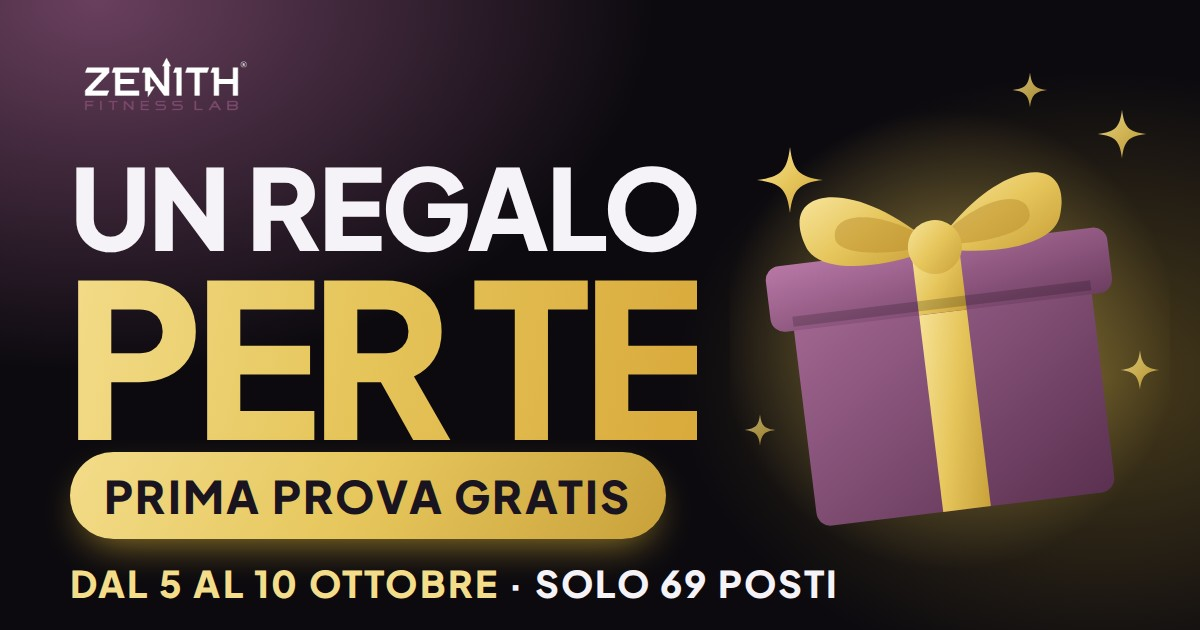
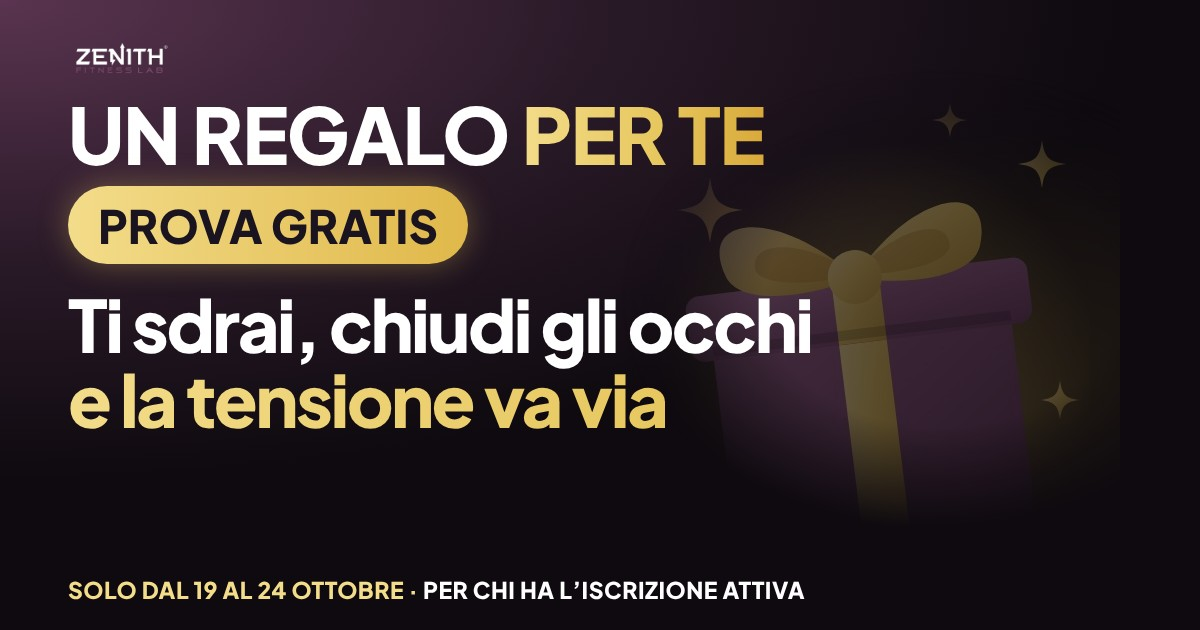
Regalo iscritti: foto definitiva, stesso script e stesso link della prima settimana (da pubblicare dopo l'aggiornamento dello script)
Claude-Session: https://claude.ai/code/session_01MZRCdVi6adMs4Bac4AWRp5

diff --git a/app/prova/index.html b/app/prova/index.html
@@ -5,13 +5,13 @@
 <meta name="viewport" content="width=device-width, initial-scale=1, viewport-fit=cover">
 <meta name="robots" content="noindex, nofollow">
 <meta name="theme-color" content="#0c0a0f">
-<title>Zenith Fitness Lab · La tua prova in regalo</title>
-<meta name="description" content="Riservato a chi si allena con noi: scegli il giorno e l'orario della tua prova in regalo.">
+<title>Zenith Fitness Lab · Un regalo per te</title>
+<meta name="description" content="Riservato a chi ha l'iscrizione attiva: un'esperienza nuova, in regalo. Ti sdrai, chiudi gli occhi e lasci andare tensione e stanchezza. Solo dal 19 al 24 ottobre.">
 <!-- l'anteprima che compare su WhatsApp quando si manda il link -->
 <meta property="og:type" content="website">
 <meta property="og:site_name" content="Zenith Fitness Lab">
-<meta property="og:title" content="Prenota la tua prova gratis 🎁">
-<meta property="og:description" content="Riservata a chi si allena con noi. Scegli il tuo giorno e il tuo orario: chi prima arriva, sceglie.">
+<meta property="og:title" content="Un regalo per te 🎁">
+<meta property="og:description" content="La tua iscrizione è ancora attiva: ti regaliamo un'esperienza nuova. Solo dal 19 al 24 ottobre.">
 <meta property="og:url" content="https://therightclickbooks-source.github.io/capsula/app/prova/">
 <meta property="og:image" content="https://therightclickbooks-source.github.io/capsula/app/prova/regalo.jpg">
 <meta property="og:image:type" content="image/jpeg">
@@ -25,7 +25,8 @@
 <link rel="preconnect" href="https://script.google.com" crossorigin>
 <link rel="preconnect" href="https://script.googleusercontent.com" crossorigin>
 <script>
-/* lo script del foglio «Zenith Settimana di Prova» (account del centro); con ?demo=1 la pagina gira coi dati finti */
+/* lo stesso script della prima settimana (account del centro), aggiornato con docs/prenotazioni/Codice-regalo.gs
+   e ripubblicato come nuova versione: l'indirizzo non cambia. Con ?demo=1 la pagina gira coi dati finti */
 var ENDPOINT = 'https://script.google.com/macros/s/AKfycbxlUqPClrMXdWWIUJSOVTvSfRBU4ds7H-lgafs_19W1-8fVHGFMIa436Y_EVBL8a2ye/exec';
 /* La richiesta dei posti parte qui, PRIMA del resto della pagina: quando il
    calendario e' pronto per essere disegnato la risposta e' gia' in viaggio,
@@ -33,7 +34,7 @@ var ENDPOINT = 'https://script.google.com/macros/s/AKfycbxlUqPClrMXdWWIUJSOVTvSf
 (function(){
   if(!ENDPOINT || /[?&]demo=1/.test(location.search)) return;
   var q = {azione:'stato', nome:'', cognome:''};
-  try{ var io = JSON.parse(localStorage.getItem('zfl_prova_io')) || {}; q.nome = io.nome || ''; q.cognome = io.cognome || ''; }catch(e){}
+  try{ var io = JSON.parse(localStorage.getItem('zfl_regalo_io')) || {}; q.nome = io.nome || ''; q.cognome = io.cognome || ''; }catch(e){}
   try{
     window.__STATO = fetch(ENDPOINT + '?' + new URLSearchParams(q).toString(), {redirect:'follow'})
       .then(function(r){ if(!r.ok) throw new Error('rete'); return r.json(); });
@@ -145,6 +146,15 @@ input.tel:focus{border-color:var(--oro)}
 .bollo .vai .dita{font-size:38px; line-height:1; margin-bottom:8px; animation:rimbalza 1.1s ease-in-out infinite}
 .nota-ingresso{font-size:13px; text-align:center; color:var(--faint); margin-top:14px; line-height:1.5}
 /* secondo passo: il periodo in grande, che non si possa non vederlo */
+.regalo{margin-top:4px; padding:18px 16px 16px; border-radius:24px; text-align:center; border:2px solid var(--oro);
+  background:radial-gradient(120% 90% at 50% 0%,rgba(230,198,92,.28),transparent 70%),rgba(255,255,255,.04)}
+.regalo .rk{font-size:13px; letter-spacing:.2em; font-weight:800; color:var(--oro)}
+.regalo .rt{font-size:27px; font-weight:800; line-height:1.1; margin-top:6px} .regalo .rt b{color:var(--oro)}
+.regalo .rp{display:flex; flex-direction:column; align-items:center; margin-top:10px}
+.regalo .r1{font-size:18px; font-weight:700} .regalo .r1 b{font-weight:800}
+.regalo .r2{font-size:40px; font-weight:800; line-height:1.05; letter-spacing:-.02em} .regalo .r2 s{font-size:24px; color:var(--muted, #a49eae); font-weight:700} .regalo .r2 b{color:var(--oro)}
+.regalo .rs{margin-top:8px; font-size:15px; line-height:1.35; font-weight:700; color:#f3dc8a}
+.regalo + .step{margin-top:18px}
 .periodo{margin-top:14px; border-radius:24px; padding:18px 16px 18px; text-align:center; color:#1a1320;
   background:linear-gradient(140deg,#f7e39a,#e6c65c 55%,#c9a13a); box-shadow:0 18px 44px -18px rgba(230,198,92,.7)}
 .periodo small{display:block; font-size:12px; letter-spacing:.22em; font-weight:800; color:#5a3a12}
@@ -191,7 +201,7 @@ input.tel:focus{border-color:var(--oro)}
 </head>
 <body>
 <div class="wrap">
-  <div class="top"><img id="logo" alt="Zenith Fitness Lab"><div class="sub">RISERVATO A CHI SI ALLENA CON NOI</div></div>
+  <div class="top"><img id="logo" alt="Zenith Fitness Lab"><div class="sub">RISERVATO A CHI HA L'ISCRIZIONE ATTIVA</div></div>
 
   <!-- 0 · il primo passo: obbligato, senza scorciatoie. Sabato da scoprire, poi il bottone che apre il calendario -->
   <section class="scena on" id="s-ingresso"><div id="ingresso"></div></section>
@@ -199,8 +209,11 @@ input.tel:focus{border-color:var(--oro)}
   <!-- 1 · il calendario -->
   <section class="scena" id="s-cal">
     <div class="intro" id="intro">
-      <span class="step"><i>2</i> SCEGLI IL TUO GIORNO</span>
-      <div class="periodo"><small>🎁 LA TUA PROVA GRATIS</small><b id="titolo">DAL 5 AL 10<br>OTTOBRE</b>
+      <div class="regalo"><div class="rk">🎁 UN REGALO PER TE</div>
+        <div class="rt">Ti sdrai, chiudi gli occhi e <b>lasci andare</b> tensione e stanchezza</div>
+        <div class="rs">Un'esperienza nuova, in regalo perché la tua iscrizione è ancora attiva. Siamo sicuri che ti piacerà.</div></div>
+      <span class="step"><i>✓</i> SCEGLI IL TUO GIORNO</span>
+      <div class="periodo"><small>SOLO PER CHI HA L'ISCRIZIONE ATTIVA</small><b id="titolo">DAL 19 AL 24<br>OTTOBRE</b>
         <p id="lead">Scegli un giorno e un orario qui sotto. Chi prima prenota, sceglie.</p></div>
     </div>
     <div id="calblocco">
@@ -237,7 +250,7 @@ input.tel:focus{border-color:var(--oro)}
   <section class="scena" id="s-pieno">
     <span class="tag">POSTI ESAURITI</span>
     <h1>Questa settimana i posti sono <em>finiti.</em></h1>
-    <p class="lead">Ci dispiace, eravate in tanti. Lascia il tuo nome: se qualcuno libera un posto ti chiamiamo noi, e la settimana dopo hai la precedenza.</p>
+    <p class="lead">Ci dispiace, eravate in tanti. Lascia il tuo nome: se qualcuno libera un posto ti chiamiamo noi.</p>
     <button class="btn oro" id="attesa">Mettimi in lista d'attesa</button>
   </section>
 
@@ -292,7 +305,7 @@ if(DEMO){ const d = document.createElement('div'); d.className = 'demo'; d.textC
    */
 const NOVITA = Date.now() >= Date.parse(SVELA) ? 'Zenith' : 'la novità';   /* il nome da sabato alle 8 */
 const SAB_FINITO = Date.now() >= Date.parse('2026-10-03T12:00:00');         /* l'aperitivo e' finito */
-let INGRESSO = !SAB_FINITO;
+let INGRESSO = false;   /* qui non c'e' il primo passo: si apre direttamente il calendario */
 function costruisciIngresso(){
   const sab = '<div class="sabato c"><div class="sk1">🥂 TI ASPETTIAMO</div>'
     + '<div class="gg">SABATO <em>3</em></div><div class="ore">dalle 8 alle 12</div>'
@@ -306,11 +319,10 @@ function costruisciIngresso(){
   $('ingresso').innerHTML = h;
   $('vai').onclick = ()=>{ INGRESSO = false; scena('cal'); };
 }
-costruisciIngresso();
 
 /* il telefono ricorda chi ha gia' prenotato, per ritrovare il biglietto */
-const ricordo = { get(){ try{ return JSON.parse(localStorage.getItem('zfl_prova_io')) || {}; }catch(e){ return {}; } },
-                  set(v){ try{ localStorage.setItem('zfl_prova_io', JSON.stringify(v)); }catch(e){} } };
+const ricordo = { get(){ try{ return JSON.parse(localStorage.getItem('zfl_regalo_io')) || {}; }catch(e){ return {}; } },
+                  set(v){ try{ localStorage.setItem('zfl_regalo_io', JSON.stringify(v)); }catch(e){} } };
 /* «Giulia  Esposito», «giulia esposito» e «Giùlia Esposito» sono la stessa persona */
 const chiave = (n, c) => (String(n || '') + ' ' + String(c || '')).normalize('NFD').replace(/[\u0300-\u036f]/g, '')
   .toLowerCase().replace(/[^a-z' ]/g, ' ').replace(/\s+/g, ' ').trim();
@@ -333,7 +345,7 @@ async function chiama(azione, extra){
 
 /* l'ultimo calendario visto resta nel telefono: la volta dopo si apre
    in un lampo, e intanto si aggiorna in silenzio con la risposta vera */
-const CHIAVE_COPIA = DEMO ? 'zfl_prova_stato_demo' : 'zfl_prova_stato';   /* la prova dimostrativa non si mescola con la vera */
+const CHIAVE_COPIA = DEMO ? 'zfl_regalo_stato_demo' : 'zfl_regalo_stato';   /* la prova dimostrativa non si mescola con la vera */
 const COPIA = { get(){ try{ return JSON.parse(localStorage.getItem(CHIAVE_COPIA)); }catch(e){ return null; } },
                 set(v){ try{ localStorage.setItem(CHIAVE_COPIA, JSON.stringify(v)); }catch(e){} } };
 const LEAD0 = $('lead').textContent;   /* il testo di sempre, da rimettere dopo un «connessione assente» */
@@ -516,11 +528,11 @@ $('ics').onclick = ()=>{
   const p = STATO.mia;
   const inizio = new Date(p.data + 'T' + p.ora + ':00'), fine = new Date(inizio.getTime() + 45 * 60000);
   const f = d => d.getFullYear() + String(d.getMonth()+1).padStart(2,'0') + String(d.getDate()).padStart(2,'0') + 'T' + String(d.getHours()).padStart(2,'0') + String(d.getMinutes()).padStart(2,'0') + '00';
-  const ics = ['BEGIN:VCALENDAR','VERSION:2.0','PRODID:-//Zenith Fitness Lab//Prova//IT','BEGIN:VEVENT',
-    'UID:prova-' + p.id + '@zenithfitnesslab', 'DTSTART:' + f(inizio), 'DTEND:' + f(fine),
+  const ics = ['BEGIN:VCALENDAR','VERSION:2.0','PRODID:-//Zenith Fitness Lab//Regalo//IT','BEGIN:VEVENT',
+    'UID:regalo-' + p.id + '@zenithfitnesslab', 'DTSTART:' + f(inizio), 'DTEND:' + f(fine),
     'SUMMARY:La mia prova in regalo · Zenith Fitness Lab', 'DESCRIPTION:Arriva 5 minuti prima. Resti vestito: i calzini antiscivolo te li diamo noi.',
     'BEGIN:VALARM','TRIGGER:-PT2H','ACTION:DISPLAY','DESCRIPTION:La tua prova tra due ore','END:VALARM','END:VEVENT','END:VCALENDAR'].join('\r\n');
-  const a = document.createElement('a'); a.href = URL.createObjectURL(new Blob([ics], {type:'text/calendar'})); a.download = 'prova-zenith.ics'; a.click();
+  const a = document.createElement('a'); a.href = URL.createObjectURL(new Blob([ics], {type:'text/calendar'})); a.download = 'regalo-zenith.ics'; a.click();
 };
 $('attesa').onclick = ()=> apri('attesa', null);
 function attesaFatta(){ scena('pieno'); $('attesa').textContent = '✓ Sei in lista d\'attesa'; $('attesa').disabled = true; }
@@ -540,18 +552,20 @@ function coriandoli(){
 /* ══════════ LA PROVA DIMOSTRATIVA ══════════
    Senza foglio collegato la pagina funziona lo stesso, con dati finti
    che restano solo su questo telefono: serve a vederla e a provarla. */
+/* gli stessi orari della prima settimana, meno quelli gia' occupati dai clienti attivi:
+   mar 20 alle 10:30, 15:00 e 18:45 · mer 21 alle 18:45 · ven 23 alle 11:15 e 17:15 · sab 24 alle 12:00 */
 const ORARI = {
-  '2026-10-05':['08:15','09:00','09:45','10:30','11:15','16:30','17:15','18:00','18:45','19:30'],
-  '2026-10-06':['08:15','09:00','09:45','10:30','11:15','12:00','12:45','13:30','14:15','15:00','15:45','16:30','17:15','18:00','18:45','19:30'],
-  '2026-10-07':['08:15','09:00','09:45','10:30','11:15','16:30','17:15','18:00','18:45','19:30'],
-  '2026-10-08':['08:15','09:00','09:45','10:30','11:15','12:00','12:45','13:30','14:15','15:00','15:45','16:30','17:15','18:00','18:45','19:30'],
-  '2026-10-09':['08:15','09:00','09:45','10:30','11:15','15:45','16:30','17:15','18:00','18:45'],
-  '2026-10-10':['08:15','09:00','09:45','10:30','11:15','12:00','12:45']};
+  '2026-10-19':['08:15','09:00','09:45','10:30','11:15','16:30','17:15','18:00','18:45','19:30'],
+  '2026-10-20':['08:15','09:00','09:45','11:15','12:00','12:45','13:30','14:15','15:45','16:30','17:15','18:00','19:30'],
+  '2026-10-21':['08:15','09:00','09:45','10:30','11:15','16:30','17:15','18:00','19:30'],
+  '2026-10-22':['08:15','09:00','09:45','10:30','11:15','12:00','12:45','13:30','14:15','15:00','15:45','16:30','17:15','18:00','18:45','19:30'],
+  '2026-10-23':['08:15','09:00','09:45','10:30','15:45','16:30','18:00','18:45'],
+  '2026-10-24':['08:15','09:00','09:45','10:30','11:15','12:45']};
 function demo(q){
-  let db; try{ db = JSON.parse(localStorage.getItem('zfl_prova_demo')); }catch(e){}
+  let db; try{ db = JSON.parse(localStorage.getItem('zfl_regalo_demo')); }catch(e){}
   if(!db){ db = {posti:{}, attesa:[]}; let n = 0;
     Object.entries(ORARI).forEach(([g, l])=> l.forEach(o=>{ db.posti[g + '_' + o] = (n++ * 7) % 3 === 0 ? 'altro' : ''; })); }
-  const salva = ()=>{ try{ localStorage.setItem('zfl_prova_demo', JSON.stringify(db)); }catch(e){} };
+  const salva = ()=>{ try{ localStorage.setItem('zfl_regalo_demo', JSON.stringify(db)); }catch(e){} };
   const tel = chiave(q.nome, q.cognome).includes(' ') ? chiave(q.nome, q.cognome) : '';
   const stato = ()=>{ const posti = Object.keys(db.posti).map(id=>{ const [data, ora] = id.split('_'); return {id, data, ora, libero: !db.posti[id]}; });
     const mio = tel && Object.keys(db.posti).find(id=> db.posti[id] === tel);

diff --git a/app/regalo/index.html b/app/regalo/index.html
@@ -25,9 +25,9 @@
 <link rel="preconnect" href="https://script.google.com" crossorigin>
 <link rel="preconnect" href="https://script.googleusercontent.com" crossorigin>
 <script>
-/* lo script del foglio «Zenith Regalo Iscritti» (account del centro, da pubblicare: vedi docs/prenotazioni/Codice-regalo.gs).
-   Finche' e' vuoto la pagina gira coi dati finti, solo sul telefono che la apre */
-var ENDPOINT = '';
+/* lo stesso script della prima settimana (account del centro), aggiornato con docs/prenotazioni/Codice-regalo.gs
+   e ripubblicato come nuova versione: l'indirizzo non cambia. Con ?demo=1 la pagina gira coi dati finti */
+var ENDPOINT = 'https://script.google.com/macros/s/AKfycbxlUqPClrMXdWWIUJSOVTvSfRBU4ds7H-lgafs_19W1-8fVHGFMIa436Y_EVBL8a2ye/exec';
 /* La richiesta dei posti parte qui, PRIMA del resto della pagina: quando il
    calendario e' pronto per essere disegnato la risposta e' gia' in viaggio,
    e spesso e' gia' arrivata. La pagina la ritrova in window.__STATO. */
